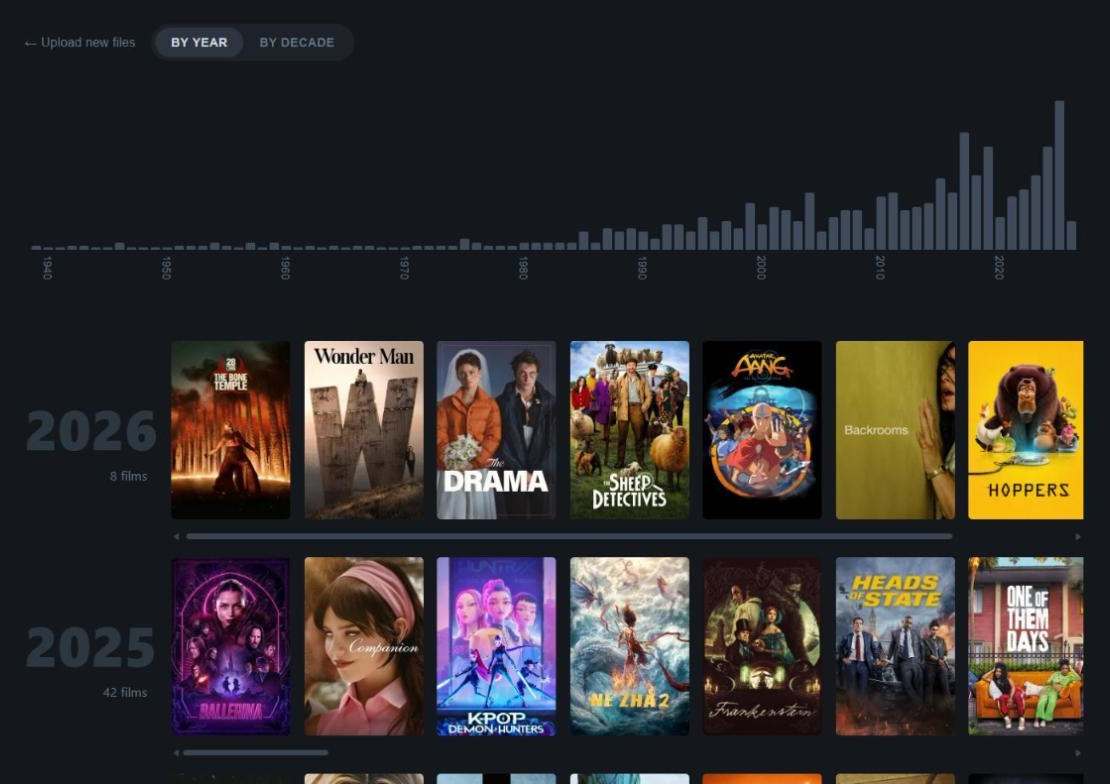
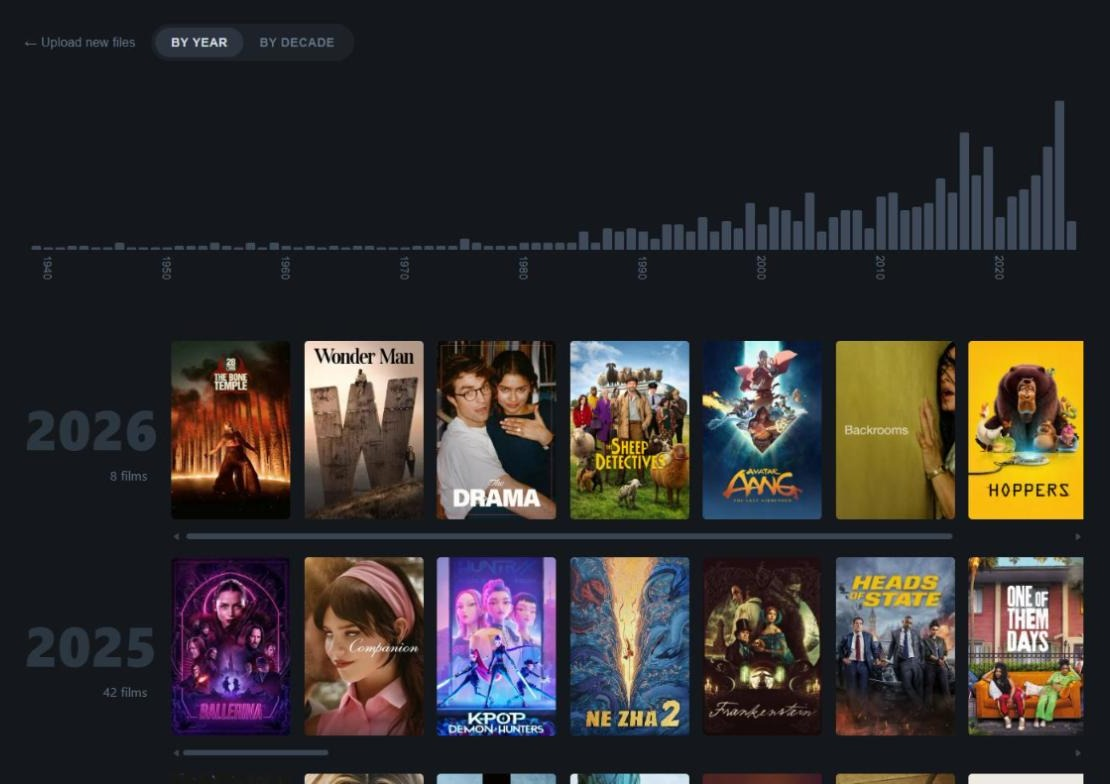
style: center and enlarge decade histogram labels, align graph with swipers
- Decade labels are upright, centered under their bar, and larger (14px)
- Decade histogram is inset by the year-label column so its bars line up
  with the poster swipers (shared --year-col / --year-gap variables)
- Retake README screenshots

diff --git a/src/index.css b/src/index.css
@@ -8,6 +8,10 @@
   --green: #00e054;
   --accent: #40bcf4;
   --radius: 4px;
+  /* Year-row label column + grid gap; the decade histogram is inset by both
+     so its bars line up with the start of the poster swipers. */
+  --year-col: 140px;
+  --year-gap: 8px;
 
   font-family: -apple-system, BlinkMacSystemFont, 'Segoe UI', Roboto, Helvetica,
     Arial, sans-serif;
@@ -276,13 +280,21 @@ body {
 }
 
 /* Decades are few and every bar is labelled, so give them wider columns
-   and more spacing to keep the rotated labels from colliding. */
+   and more spacing to keep the labels from colliding. */
+.histogram.is-decade {
+  margin-left: calc(var(--year-col) + var(--year-gap));
+}
+
 .histogram.is-decade .hist-track {
   gap: 10px;
 }
 
 .histogram.is-decade .hist-col {
   width: 72px;
+}
+
+.histogram.is-decade .hist-axis {
+  height: 40px;
 }
 
 .hist-bar-area {
@@ -322,6 +334,13 @@ body {
   font-size: 11px;
   color: var(--text-dim);
   white-space: nowrap;
+}
+
+/* Decade bars are wide enough for upright labels, centered under each bar. */
+.histogram.is-decade .hist-tick-label {
+  left: 50%;
+  transform: translateX(-50%);
+  font-size: 14px;
 }
 
 .hist-tooltip {
@@ -374,9 +393,9 @@ body {
 
 .year-row {
   display: grid;
-  grid-template-columns: 140px 1fr;
+  grid-template-columns: var(--year-col) 1fr;
   align-items: center;
-  gap: 8px;
+  gap: var(--year-gap);
   min-height: 180px;
 }
 
